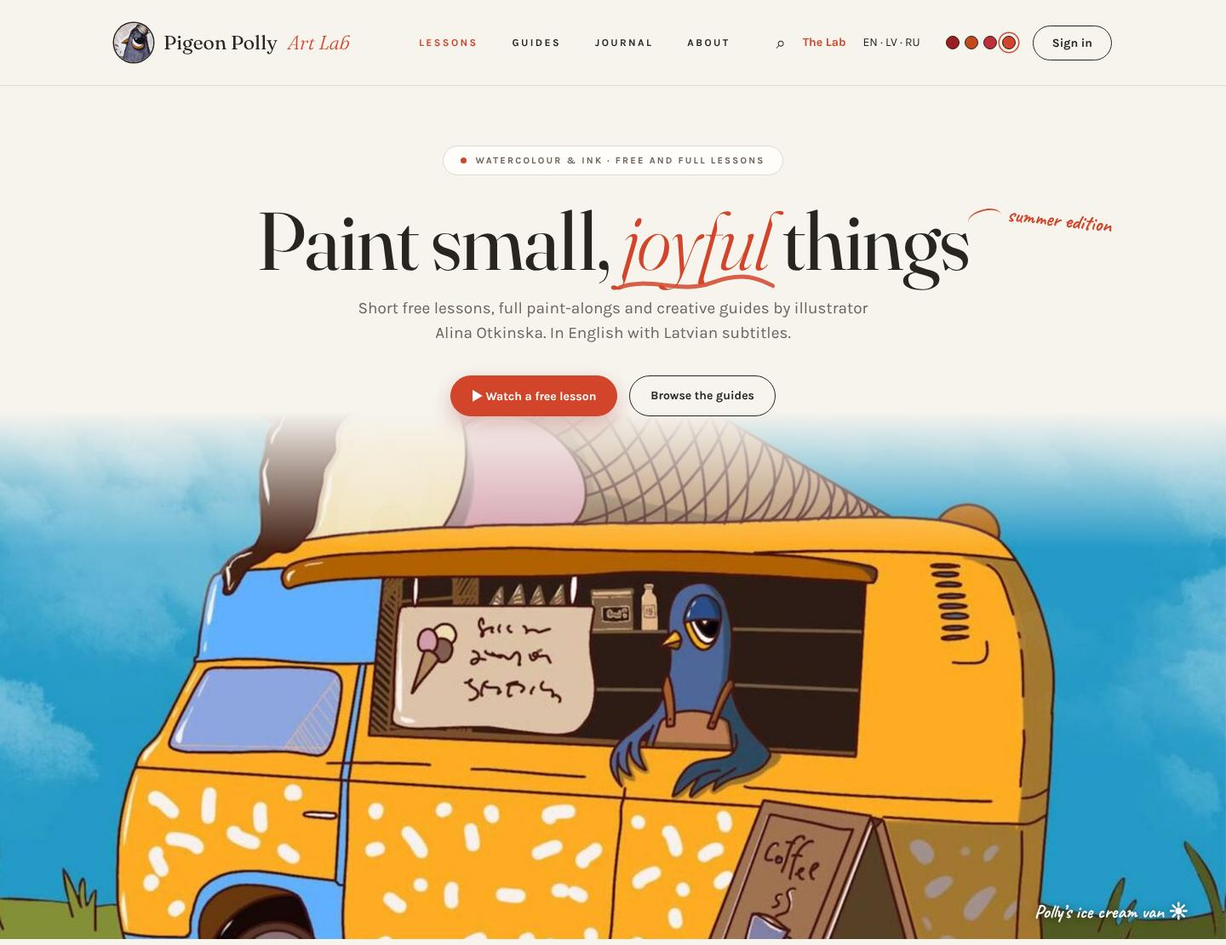
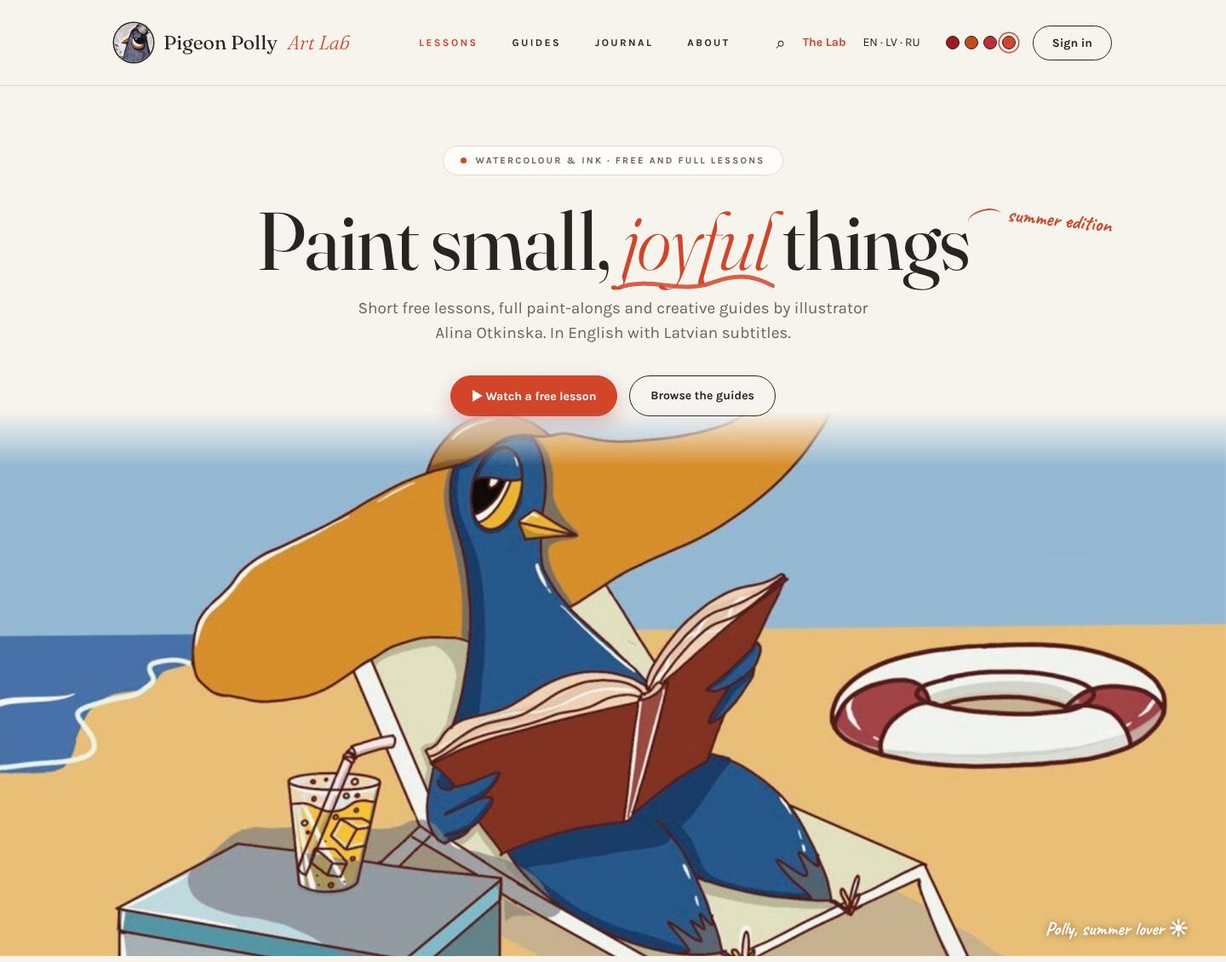
Редизайн 2.0: лето — снова Полли на шезлонге, голова в кадре (макет на ветке)
Claude-Session: https://claude.ai/code/session_015qZXG8SjAVYLjQMVDdRoKk

diff --git a/_held/redesign-2.0/var-i-summer.html b/_held/redesign-2.0/var-i-summer.html
@@ -25,7 +25,7 @@ em{font-style:italic;color:var(--wine);font-weight:300}
 .hero p{font-size:19px;color:var(--mut);max-width:32em;margin:0 auto 34px}
 .ctas{display:flex;gap:14px;justify-content:center}
 .pano{position:relative;height:500px;margin-top:-6px}
-.pano img{position:absolute;inset:0;width:100%;height:100%;object-fit:cover;object-position:center 45%;-webkit-mask-image:linear-gradient(to bottom,transparent 0,rgba(0,0,0,.4) 20%,#000 48%);mask-image:linear-gradient(to bottom,transparent 0,rgba(0,0,0,.4) 20%,#000 48%)}
+.pano img{position:absolute;inset:0;width:100%;height:100%;object-fit:cover;object-position:center 0%;-webkit-mask-image:linear-gradient(to bottom,transparent 0,rgba(0,0,0,.4) 20%,#000 48%);mask-image:linear-gradient(to bottom,transparent 0,rgba(0,0,0,.4) 20%,#000 48%)}
 .tagp{position:absolute;z-index:2;display:flex;flex-direction:column;align-items:center}.tagp span{background:var(--sheet);border-radius:999px;padding:8px 15px;font:700 11px Karla;letter-spacing:.14em;text-transform:uppercase;box-shadow:0 6px 16px rgba(31,35,38,.15);display:flex;gap:8px;align-items:center}.tagp span:before{content:"";width:7px;height:7px;border-radius:50%;background:var(--wine)}.tagp i{width:1px;height:46px;background:var(--ink)}
 .facts{background:var(--gr);color:var(--grtx)}.facts span{flex:1;padding:24px 44px;font-size:12px;color:var(--grmut);border-right:1px solid rgba(233,226,214,.12)}.facts span:last-child{border:0}.facts b{display:block;font:400 22px Fraunces;color:var(--grtx)}
 .facts .w{display:flex;padding:0}
@@ -182,7 +182,7 @@ section{position:relative}
 .cover h3{font:italic 300 48px Fraunces;margin:10px 0}.cover .hand{font-size:30px}
 .cover .k{color:var(--wine)}
 .cover .brush{width:70px;height:70px;border-radius:50%;border:1.5px dashed var(--wine);display:grid;place-items:center;font-size:26px;margin-top:16px}
-.pano{height:620px}.pano img{-webkit-mask-image:linear-gradient(to bottom,transparent 0,#000 26%);mask-image:linear-gradient(to bottom,transparent 0,#000 26%)}</style></head><body><svg width="0" height="0" style="position:absolute"><filter id="rough"><feTurbulence type="fractalNoise" baseFrequency=".018" numOctaves="3" seed="4"/><feDisplacementMap in="SourceGraphic" scale="60"/></filter></svg><header class="hd"><div class="w"><span class="lg"><img src="img/logo-wc.png">Pigeon Polly <i>Art Lab</i></span>
+.pano{height:640px}.pano img{-webkit-mask-image:linear-gradient(to bottom,transparent 0,#000 10%);mask-image:linear-gradient(to bottom,transparent 0,#000 10%)}</style></head><body><svg width="0" height="0" style="position:absolute"><filter id="rough"><feTurbulence type="fractalNoise" baseFrequency=".018" numOctaves="3" seed="4"/><feDisplacementMap in="SourceGraphic" scale="60"/></filter></svg><header class="hd"><div class="w"><span class="lg"><img src="img/logo-wc.png">Pigeon Polly <i>Art Lab</i></span>
 <nav class="nv"><span class="on">Lessons</span><span>Guides</span><span>Journal</span><span>About</span></nav>
 <div class="hr"><span class="s">⌕</span><span class="lb">The Lab</span><span>EN · LV · RU</span><span class="switch"><a class="" style="background:#9E1B22" title="Winter"></a><a class="" style="background:#C04A1C" title="Autumn"></a><a class="" style="background:#BE2F3A" title="Spring"></a><a class="on" style="background:#D2452B" title="Summer"></a></span><span class="btn si" style="padding:11px 22px">Sign in</span></div></div></header>
 
@@ -190,7 +190,7 @@ section{position:relative}
 <span class="sea">summer edition</span><h1>Paint small, <em>joyful<svg viewBox="0 0 300 30" preserveAspectRatio="none"><path d="M5 20 C 60 6, 120 28, 180 14 S 270 10, 295 18"/></svg></em> things</h1>
 <p>Short free lessons, full paint-alongs and creative guides by illustrator Alina Otkinska. In English with Latvian subtitles.</p>
 <div class="ctas"><span class="btn pri">▶ Watch a free lesson</span><span class="btn">Browse the guides</span></div></div>
-<div class="pano"><img src="img/hero-summer.jpg"><span class="cap2">Polly’s ice cream van ☀</span></div></section>
+<div class="pano"><img src="img/hero-summer.jpg"><span class="cap2">Polly, summer lover ☀</span></div></section>
 
 
 <section class="fl"><div class="w"><div><span class="hand">hi! let’s paint something small ✿</span><h2>Free lessons, <i>ten minutes each</i></h2>

diff --git a/_held/redesign-2.0/gen10.py b/_held/redesign-2.0/gen10.py
@@ -8,7 +8,7 @@ SEASONS = {
  'winter': dict(name='Winter', ru='Зима', bg='#EEF1F3', sheet='#F8FAFB', ink='#1C2430', mut='#5D6670', line='#D3DAE0', gr='#26303A', gr2='#313C47', acc='#9E1B22', acc2='#E2544A', inner='#1B2632', hero='img/hero-winter.jpg', pos='center 32%', note='frosty rooftops, Riga ❄', tag='winter edition'),
  'autumn': dict(name='Autumn', ru='Осень', bg='#F4F0EA', sheet='#FBF9F5', ink='#2A211C', mut='#6C6058', line='#DED5CA', gr='#2E2521', gr2='#3A302B', acc='#C04A1C', acc2='#EE7A45', inner='#2A1D16', hero='img/hero-autumn.jpg', pos='center 45%', note='night garden, physalis ✿', tag='autumn edition'),
  'spring': dict(name='Spring', ru='Весна', bg='#F1F4F0', sheet='#FAFBF9', ink='#1F2A25', mut='#5E6A63', line='#D4DDD6', gr='#26302B', gr2='#313C36', acc='#BE2F3A', acc2='#E85C64', inner='#1C2A23', hero='img/hero-spring.jpg', pos='center 55%', note='wild strawberries ❀', tag='spring edition'),
- 'summer': dict(name='Summer', ru='Лето', bg='#F7F4EE', sheet='#FFFDFA', ink='#2A2420', mut='#6D635B', line='#E3DACE', gr='#2F2622', gr2='#3B312C', acc='#D2452B', acc2='#F07A55', inner='#3A1A1C', hero='img/hero-summer.jpg', pos='center 45%', note='Polly’s ice cream van ☀', tag='summer edition'),
+ 'summer': dict(name='Summer', ru='Лето', bg='#F7F4EE', sheet='#FFFDFA', ink='#2A2420', mut='#6D635B', line='#E3DACE', gr='#2F2622', gr2='#3B312C', acc='#D2452B', acc2='#F07A55', inner='#3A1A1C', hero='img/hero-summer.jpg', pos='center 0%', note='Polly, summer lover ☀', tag='summer edition'),
 }
 
 def stain(col, seed, op):
@@ -94,7 +94,7 @@ def build(key, s, mode=''):
         assert a in css, a; css = css.replace(a, b)
     css = css.replace('object-position:center 32%', 'object-position:' + s['pos'])
     if key == 'summer':
-        css += '.pano{height:620px}.pano img{-webkit-mask-image:linear-gradient(to bottom,transparent 0,#000 26%);mask-image:linear-gradient(to bottom,transparent 0,#000 26%)}'
+        css += '.pano{height:640px}.pano img{-webkit-mask-image:linear-gradient(to bottom,transparent 0,#000 10%);mask-image:linear-gradient(to bottom,transparent 0,#000 10%)}'
     css = css.replace('.post img{width:110px;height:110px;object-fit:cover;border-radius:55px 55px 3px 3px}', '.post img{width:130px;height:96px;object-fit:cover;border-radius:3px}')
     css = css.replace('STAINS', ', '.join([stain(s['acc'], 4, .22), stain(s['mut'], 9, .2), stain(s['acc'], 12, .16)]) + ';background-size:420px 420px,300px 300px,200px 200px;background-position:8% 20%,88% 70%,60% 10%')
     b = B0

diff --git a/docs/plan-status.md b/docs/plan-status.md
@@ -55,7 +55,7 @@
 | 23 | готово | семена: в магазине (блок «🌱 Семена для огорода») и лавке, иногда в играх (Дождь, Зельеварня, Блинная, Титос, Смена, жуки), редкие — 7 дней подряд с бонусом карточки дня, волшебные — 7 дней полива подряд (новость 🌱); 15 вещей для огорода (вид garden, ★ золотая лейка и оранжерея, «🎲 Сюрприз»), стоят в огороде сами, можно спрятать; правила в «🥕 Огород птички» |
 | 29 | готово | «Смена с Полли» /shift/ (меню «Играть» ⏱, плитка на /games/ и главной): таймер 20/40/60/90 мин или своё до 3 ч, 3 бесконечные ретро-мелодии кодом (shift-music.js), новый детальный кабинет 480×270 (tools/rooms/shift.py — по просьбе Алины «более детальный»), Полли в галстуке: печатает и в случайном порядке — кофе, обед, кулер, разминка, копир и принтер, папки, цветок, дипломы, комок в урну; таймер на столе; финал — галстук долой, гитара, пиксельная колыбельная, сон. Вошедшим — повышение (бесконечная лестница должностей) и 🔘 за каждый час (worker/shift.js, правило shiftBtn) |
 | 28 | готово | Зельеварня: совиное перо (и другие новые эмодзи) — своя картинка, где эмодзи нет; 3 дня подряд в игре → зелье оживления, его кладут на котика в комнате — котик живой навсегда (бегает, потягивается, дерёт диван). Допущения: «кошка» — «Домашний котик» furn|cat (статуя чёрного кота не оживает); день засчитывает пройденный лабиринт или сваренное зелье; после зелья серия заново, в сумке не больше 3 неиспользованных; число дней — в «📜 Правилах» |
-| 2.0 редизайн | ждёт «да» Алины | Ответы получены. Макеты и стратегия (9 пунктов) — _held/redesign-2.0/ (strategy.md, home/shop/lab/wobbleland/admin/journey.html, sheet1-home.jpg, sheet2-pages.jpg), только на ветке. Круг правок 1: убран доминирующий зелёный (какао + бургунд), убран пиксельный стиль (Лаборатория — ночной сливовый скетчбук, жители — рисованные карточки, логотип-предложение из акварельной карточки). Круг 2: продажа артов (добавляет сама, покупают вошедшие, счёт → оплачено → отправлено; product/orders/admin-art/admin-orders.html), цены-ориентиры, мастер-классы вне сайта (YouTube бесплатно, Patreon платно, Learn — витрина ссылок; learn.html) — strategy.md §10–12, sheet3-shop-learn.jpg. Круг 3: 2 альтернативы главной без продажи картин, продукт — уроки + гайды + материалы: var-a.html «Альманах» (календарь уроков, палитра месяца, полка книг), var-b.html «Архив с папками» (коллаж, вкладки-папки) — sheet4-variants.jpg. A не понравился, B — «ничего, но много цвета и деталей». Круг 4: var-c.html — основа первого макета + папки из B, один акцент (терракота #B4502F), без продажи картин — sheet5-variant-c.jpg. C: «не нравится гамма», хочет холодные глубокие тёмные + 1 акцент, просторную шапку (референс Libertas — задумка да, стиль нет). Круг 5: var-d.html — холодная бумага #EDF0F1, чернила #16202E, глубокий #1C2A3D, акцент хурма #D2643A; шапка 104 px, центрованный первый экран + панорама «Крыши» акварелью с метками — sheet6-variant-d.jpg. D: «всё ещё не нравится», ближе к тёмной части мудборда (Dark Eden, Wild Woman, тёмные папки), блоки «поинтереснее, а не просто отсечение». Круг 6: var-e.html «Тёмный архив» — фон #1B1E21, бумага #EAE1CF, сланец #7D8990, акцент ржавчина #B0573A; арка с «Ночным садом» под заголовком, записка-урок со скотчем, вертикальные папки-разделители, рваный лист с гайдами, приколотые материалы, клуб — билет поверх фото, огромное название в подвале — sheet7-variant-e.jpg. E: «слишком тёмная, перегружает», нет блога. Круг 7: var-f.html «Светлый архив» — те же слоистые блоки на светлой бумаге #EEEBE5, тёмный только в папке 02 и подвале, акцент ржавчина; + блок Journal (главная статья с карточкой поверх фото + 3 записи + «раньше на Patreon»). Заголовки статей — примеры (D1 недоступна) — sheet8-variant-f.jpg. F: дизайн и цвета «пока не очень». Нравится концептуально: арка с ягодами (hero), полка с гайдами, сетка уроков как в learn.html (free/paint-alongs), «обо мне» + карточки Воббленда, полароид «Лаборатории». Убрать: записку «урок недели» и мастер-классы в Риге (их пока нет — будет пусто). Круг 8: palettes.html / sheet9-palettes.jpg — 4 гаммы × шрифт на одной композиции (1 чернила-бумага/Fraunces, 2 ночной сад/Cormorant, 3 бордовый архив/Playfair, 4 графит-ржавчина/DM Serif). Ответ: «квадратность и обычность не нравятся, хочется невероятного: тёплые ягоды на северном тёмном болоте, старые книги, свет свечи, воск, корица, детективные досье, тряпки в красках». Круг 9: var-g.html (gen8.py) «Свеча на болоте» — одна сцена: болотная ночь с туманом и светом свечи (свет идёт за мышью), арка с ягодами + свеча, IM Fell English + Special Elite + Caveat, сургучная печать-кнопка, досье с уликами и красной нитью, книги на полке с лентами, материалы на рваной холщовой тряпке с пятнами краски, статьи блога — письма со штемпелями, камея-портрет, карты Воббленда веером, полароид Лаборатории — sheet10-variant-g.jpg, sheet10-hero.jpg. G: «слишком переиграно». Начали заново со списка. Выбор Алины для главной: 1 шапка, 2 первый экран, 3 факты (без повтора гайдов), 8 голосование «что рисуем», 11 гайды и книги, 17 блог (3 записи), 19 обо мне, 25 дверь в Лабораторию, 28 подвал, 29 поиск; если не перегрузит — 5 бесплатные уроки, 14 Patreon, 15 подписка. Порядок (решаю сама): шапка+поиск → первый экран → факты → (уроки) → гайды → голосование+почта → блог → (Patreon мини) → обо мне → Лаборатория → подвал. Круг 10: гаммы только на первом блоке — palettes2.html / sheet11-palettes.jpg (6 гамм, один шрифт Fraunces+Karla). Ближе всего 5 «Графит и сургуч», но «пустая, холодная, слишком воздушная». Круг 11: palettes3.html / sheet12-graphite.jpg — 4 вида тёплого графита: 5a тёмная полоса фактов, 5b арка на графитовой панели, 5c тёмная шапка, 5d графит целиком; плотнее, фактура бумаги, подпись к картине. Алина прислала коллаж любимых блоков: Лаборатория (сливовый + полароид), гайды на рваном листе, коллаж «Free lesson» из B, клуб-билет поверх фото, «обо мне» + голосование (тёмное), блог из F, первый экран как в D (шапка нравится больше всего), акцент — винный. Круг 12: var-h.html (gen9.py) — сборка этих блоков в одной гамме: фон #E7E2DA, графит #2B2826, винный #8A2638, слива #2C1F2B для Лаборатории — sheet13-variant-h.jpg. Правка: фон ближе к белому (как D), винный — в красный. Круг 13: фон #EEF0F1, листы #F8F9F9, графит #2A2C2E, винно-красный #9E1B22 (на тёмном #E2544A) — sheet14-variant-h2.jpg. Правки по PDF: убрать метки на панораме и полосу фактов; картинки блога не аркой, а прямоугольником; «обо мне» — только текст + кнопка на раздел (голосование убрано); Лаборатория закрыта светлым слоем краски, при наведении краска расступается (внутри не сливовый). Новое: 4 сезонные гаммы, главная картинка по сезону, немного живости; только компьютер. Круг 14: gen10.py → var-i-{winter,spring,summer,autumn}.html (+autumn-open): зима — крыши, весна — листья с клубникой (16), лето — красная стена (14), осень — физалис (15); мазок под «joyful», подпись «… edition», акварельные пятна, подпись к картине, кружки-сезоны в шапке; Лаборатория — слой краски с рваным краем (SVG-фильтр), открывается кругом от курсора — sheet15…17. Правки: пятна акварели убрать («как жир»), летнюю картинку заменить, закрытую краску заменить папкой. Круг 15: пятна убраны; лето — bird/2022-pigeon-polly-summer-lover; Лаборатория — крафтовая папка «THE LAB / for curious birds only», при наведении обложка открывается (3D), внутри заметка на тетрадном листе с кнопкой и полароид на скрепке (var-i-autumn-half/-open — кадры для листа). Листы обновлены. Лето: у Полли отрезало голову → «Ice cream van» (bird/2022-pigeon-polly-started-own-small-business), панорама для лета 620 px, короче растушёвка — Полли целиком (sheet18-summer-hero.jpg). Правка: «обо мне», папка и подвал сливались в один блок → блок с папкой на тёмном фоне сезона (--inner), папка с фактурой крафта (волокна, зерно, затёртые края, линии сгиба), без перебора; исправлен --acc2 (подменялся сам на себя) — sheet19-lab-dark.jpg, sheet20-folder-close.jpg. Дальше: правки или «да». Учебники в профиле не трогать |
+| 2.0 редизайн | ждёт «да» Алины | Ответы получены. Макеты и стратегия (9 пунктов) — _held/redesign-2.0/ (strategy.md, home/shop/lab/wobbleland/admin/journey.html, sheet1-home.jpg, sheet2-pages.jpg), только на ветке. Круг правок 1: убран доминирующий зелёный (какао + бургунд), убран пиксельный стиль (Лаборатория — ночной сливовый скетчбук, жители — рисованные карточки, логотип-предложение из акварельной карточки). Круг 2: продажа артов (добавляет сама, покупают вошедшие, счёт → оплачено → отправлено; product/orders/admin-art/admin-orders.html), цены-ориентиры, мастер-классы вне сайта (YouTube бесплатно, Patreon платно, Learn — витрина ссылок; learn.html) — strategy.md §10–12, sheet3-shop-learn.jpg. Круг 3: 2 альтернативы главной без продажи картин, продукт — уроки + гайды + материалы: var-a.html «Альманах» (календарь уроков, палитра месяца, полка книг), var-b.html «Архив с папками» (коллаж, вкладки-папки) — sheet4-variants.jpg. A не понравился, B — «ничего, но много цвета и деталей». Круг 4: var-c.html — основа первого макета + папки из B, один акцент (терракота #B4502F), без продажи картин — sheet5-variant-c.jpg. C: «не нравится гамма», хочет холодные глубокие тёмные + 1 акцент, просторную шапку (референс Libertas — задумка да, стиль нет). Круг 5: var-d.html — холодная бумага #EDF0F1, чернила #16202E, глубокий #1C2A3D, акцент хурма #D2643A; шапка 104 px, центрованный первый экран + панорама «Крыши» акварелью с метками — sheet6-variant-d.jpg. D: «всё ещё не нравится», ближе к тёмной части мудборда (Dark Eden, Wild Woman, тёмные папки), блоки «поинтереснее, а не просто отсечение». Круг 6: var-e.html «Тёмный архив» — фон #1B1E21, бумага #EAE1CF, сланец #7D8990, акцент ржавчина #B0573A; арка с «Ночным садом» под заголовком, записка-урок со скотчем, вертикальные папки-разделители, рваный лист с гайдами, приколотые материалы, клуб — билет поверх фото, огромное название в подвале — sheet7-variant-e.jpg. E: «слишком тёмная, перегружает», нет блога. Круг 7: var-f.html «Светлый архив» — те же слоистые блоки на светлой бумаге #EEEBE5, тёмный только в папке 02 и подвале, акцент ржавчина; + блок Journal (главная статья с карточкой поверх фото + 3 записи + «раньше на Patreon»). Заголовки статей — примеры (D1 недоступна) — sheet8-variant-f.jpg. F: дизайн и цвета «пока не очень». Нравится концептуально: арка с ягодами (hero), полка с гайдами, сетка уроков как в learn.html (free/paint-alongs), «обо мне» + карточки Воббленда, полароид «Лаборатории». Убрать: записку «урок недели» и мастер-классы в Риге (их пока нет — будет пусто). Круг 8: palettes.html / sheet9-palettes.jpg — 4 гаммы × шрифт на одной композиции (1 чернила-бумага/Fraunces, 2 ночной сад/Cormorant, 3 бордовый архив/Playfair, 4 графит-ржавчина/DM Serif). Ответ: «квадратность и обычность не нравятся, хочется невероятного: тёплые ягоды на северном тёмном болоте, старые книги, свет свечи, воск, корица, детективные досье, тряпки в красках». Круг 9: var-g.html (gen8.py) «Свеча на болоте» — одна сцена: болотная ночь с туманом и светом свечи (свет идёт за мышью), арка с ягодами + свеча, IM Fell English + Special Elite + Caveat, сургучная печать-кнопка, досье с уликами и красной нитью, книги на полке с лентами, материалы на рваной холщовой тряпке с пятнами краски, статьи блога — письма со штемпелями, камея-портрет, карты Воббленда веером, полароид Лаборатории — sheet10-variant-g.jpg, sheet10-hero.jpg. G: «слишком переиграно». Начали заново со списка. Выбор Алины для главной: 1 шапка, 2 первый экран, 3 факты (без повтора гайдов), 8 голосование «что рисуем», 11 гайды и книги, 17 блог (3 записи), 19 обо мне, 25 дверь в Лабораторию, 28 подвал, 29 поиск; если не перегрузит — 5 бесплатные уроки, 14 Patreon, 15 подписка. Порядок (решаю сама): шапка+поиск → первый экран → факты → (уроки) → гайды → голосование+почта → блог → (Patreon мини) → обо мне → Лаборатория → подвал. Круг 10: гаммы только на первом блоке — palettes2.html / sheet11-palettes.jpg (6 гамм, один шрифт Fraunces+Karla). Ближе всего 5 «Графит и сургуч», но «пустая, холодная, слишком воздушная». Круг 11: palettes3.html / sheet12-graphite.jpg — 4 вида тёплого графита: 5a тёмная полоса фактов, 5b арка на графитовой панели, 5c тёмная шапка, 5d графит целиком; плотнее, фактура бумаги, подпись к картине. Алина прислала коллаж любимых блоков: Лаборатория (сливовый + полароид), гайды на рваном листе, коллаж «Free lesson» из B, клуб-билет поверх фото, «обо мне» + голосование (тёмное), блог из F, первый экран как в D (шапка нравится больше всего), акцент — винный. Круг 12: var-h.html (gen9.py) — сборка этих блоков в одной гамме: фон #E7E2DA, графит #2B2826, винный #8A2638, слива #2C1F2B для Лаборатории — sheet13-variant-h.jpg. Правка: фон ближе к белому (как D), винный — в красный. Круг 13: фон #EEF0F1, листы #F8F9F9, графит #2A2C2E, винно-красный #9E1B22 (на тёмном #E2544A) — sheet14-variant-h2.jpg. Правки по PDF: убрать метки на панораме и полосу фактов; картинки блога не аркой, а прямоугольником; «обо мне» — только текст + кнопка на раздел (голосование убрано); Лаборатория закрыта светлым слоем краски, при наведении краска расступается (внутри не сливовый). Новое: 4 сезонные гаммы, главная картинка по сезону, немного живости; только компьютер. Круг 14: gen10.py → var-i-{winter,spring,summer,autumn}.html (+autumn-open): зима — крыши, весна — листья с клубникой (16), лето — красная стена (14), осень — физалис (15); мазок под «joyful», подпись «… edition», акварельные пятна, подпись к картине, кружки-сезоны в шапке; Лаборатория — слой краски с рваным краем (SVG-фильтр), открывается кругом от курсора — sheet15…17. Правки: пятна акварели убрать («как жир»), летнюю картинку заменить, закрытую краску заменить папкой. Круг 15: пятна убраны; лето — bird/2022-pigeon-polly-summer-lover; Лаборатория — крафтовая папка «THE LAB / for curious birds only», при наведении обложка открывается (3D), внутри заметка на тетрадном листе с кнопкой и полароид на скрепке (var-i-autumn-half/-open — кадры для листа). Листы обновлены. Лето: у Полли отрезало голову → «Ice cream van» (bird/2022-pigeon-polly-started-own-small-business), панорама для лета 620 px, короче растушёвка — Полли целиком (sheet18-summer-hero.jpg). Правка: «обо мне», папка и подвал сливались в один блок → блок с папкой на тёмном фоне сезона (--inner), папка с фактурой крафта (волокна, зерно, затёртые края, линии сгиба), без перебора; исправлен --acc2 (подменялся сам на себя) — sheet19-lab-dark.jpg, sheet20-folder-close.jpg. Лето: вернули Полли на шезлонге (summer-lover), кадр сверху (pos 0%), панорама 640 px, растушёвка 10% — голова видна. Дальше: правки или «да». Учебники в профиле не трогать |
 | Воббленд: праздничные письма | готово | в каждый праздник Воббленда (33 даты, каждый год; вещь уже есть — другая того же вида, вещей вида больше нет — пуговки, правило wlBtn) — тематическая вещь всем птичкам с ником, праздничное письмо в конвертике (поздравление, подарок, «Заглянуть в Воббленд») и письмо на почту на языке птички со ссылкой на /wobbleland/ (worker/wl-holidays.js, поле gift в wobbleland.json); галочка в профиле, отписка из письма, privacy на 3 языках. Письма уйдут только после секретов RESEND_KEY + MAIL_FROM (сейчас писем нет — решение этапа 12) |
 | кабинет: разгрузка | готово | меню 29 → 22 (ярлыки скрыты, адреса работают), «📊 Обзор» вместо статистики во «Входящих» и разделов «Челлендж»/«Стая», автопилот — только в «Правилах», магазин без двойного списка вещей и 16 кнопок «Поставить»; меню — 6 групп, разделы — вкладками сверху (docs/admin.md) |
 | Воббленд: прогулка по городу | готово | клик по гербу — пиксельная улица города (11 городов, рисуются кодом), гуляет птичка посетителя: жители в дверях, лавка блюд, доска праздников, указатели, вокзал между городами, зверушки, 5 находок (site/assets/wl-town.js, docs/wobbleland.md «Прогулка») |
